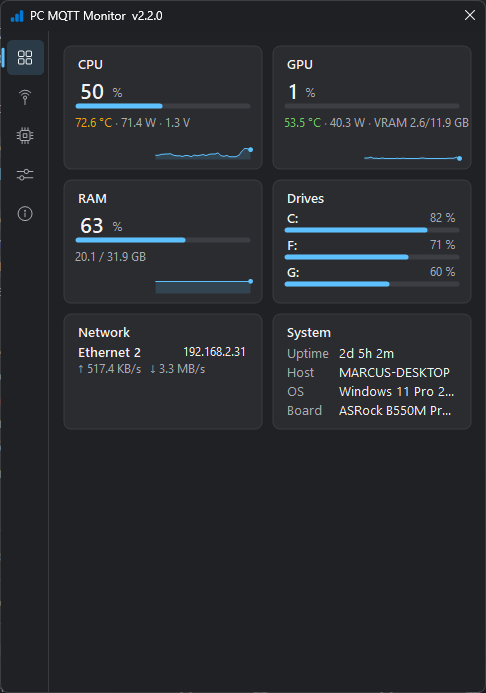
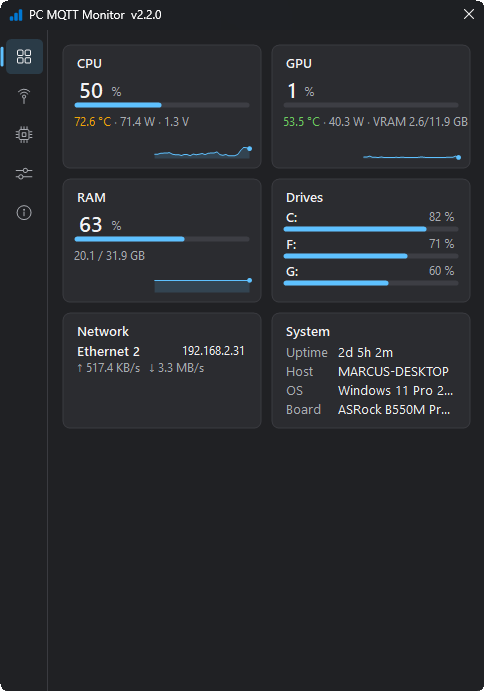
docs: polish screenshots
- dashboard.png: rounded-corner alpha mask + edge crop (no more desktop
  pixels in the corners), embedded at native width so GitHub stops
  upscaling it blurry
- add Home Assistant device-page screenshot to the discovery section

diff --git a/README.md b/README.md
@@ -2,7 +2,9 @@
 
 A lightweight Windows system-tray app that reads hardware sensors (CPU, GPU, RAM, drives, network) via [LibreHardwareMonitor](https://github.com/LibreHardwareMonitor/LibreHardwareMonitor) and publishes them to **MQTT** — with native **Home Assistant MQTT Discovery** — and optionally as **UDP datagrams** or a **TCP JSON stream**.
 
-![Dashboard](docs/dashboard.png)
+<p>
+  <img src="docs/dashboard.png" width="484" alt="Dashboard">
+</p>
 
 ## Features
 
@@ -83,7 +85,11 @@ pc/myhost/system/uptime       86400              (seconds)
 ...
 ```
 
-When Home Assistant discovery is enabled, a retained device-discovery config is published under `homeassistant/device/...` and HA picks up all sensors automatically.
+When Home Assistant discovery is enabled, a retained device-discovery config is published under `homeassistant/device/...` and HA picks up all sensors automatically — the PC appears as one device with all its entities:
+
+<p>
+  <img src="docs/home-assistant.png" width="464" alt="Home Assistant device page">
+</p>
 
 ## UDP / TCP / Serial streams
 
